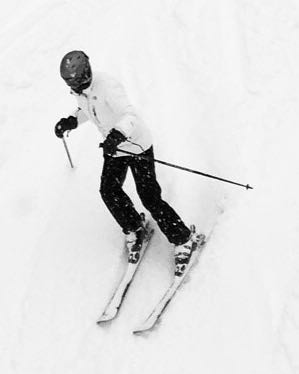
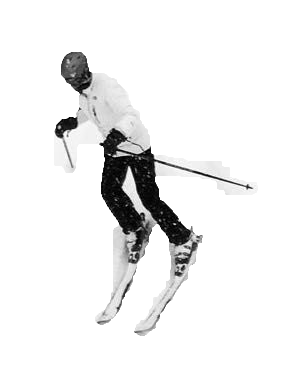
workable skiier and randomized gates

diff --git a/index.js b/index.js
@@ -11,7 +11,7 @@ var gateBlue = 'images/ski-gate-blue.jpg';
 var frames = 0;
 var background = {
   whiteBackground: function() {
-    ctx.fillStyle = '#E7E7E7';
+    ctx.fillStyle = '#F6F6F6';
     ctx.fillRect(0, 0, 500, 900);
   }
 };
@@ -30,14 +30,11 @@ window.onload = function() {
     switch (e.keyCode) {
       case 39:
         racer.moveRight();
-        console.log('move right');
         break;
       case 37:
         racer.moveLeft();
-        console.log('move left');
         break;
     }
-    updateCanvas();
   };
 
   function updateCanvas() {
@@ -52,22 +49,21 @@ window.onload = function() {
     frames++;
   }
 
-  //   function startGame() {
-  //     ctx.fillStyle = '#FDF6E1';
-  //     ctx.fillRect(0, 0, 500, 900);
-  //     racer.drawRacer();
-  //   }
-
   function createGate() {
     var y = canvasHeight;
-    var minWidth = 20;
-    var maxWidth = 400;
+    var minWidth = 1;
+    var maxWidth = 360;
     var width = Math.floor(Math.random() * (maxWidth - minWidth + 1) + minWidth);
-    var minGap = 50;
+    var minGap = 90;
     var maxGap = 200;
     var gap = Math.floor(Math.random() * (maxGap - minGap + 1) + minGap);
-    myGates.push(new Gate(0, y, width, 40, gateRed, ctx));
-    myGates.push(new Gate(width + gap, y, y - width - gap, 40, gateBlue, ctx));
+    if (width + gap >= 430) {
+      width = 330;
+      gap = 80;
+      console.log('adjusted gap');
+    }
+    myGates.push(new Gate(width, y, 10, 40, gateRed, ctx));
+    myGates.push(new Gate(width + gap, y, 10, 40, gateBlue, ctx));
   }
 
   function updateGates() {
@@ -75,9 +71,9 @@ window.onload = function() {
       myGates[i].y -= 10;
       myGates[i].drawGates();
       //   if (racer.checkIfCrash(myGates[i])) {
-      //     stopGame();
-      //     console.log('gate logs a crash');
-      //     return;
+      // stopGame();
+      // console.log('gate logs a crash');
+      // return;
       //   }
     }
   }

diff --git a/racer.js b/racer.js
@@ -6,28 +6,28 @@ function RacerConstructor(x, ctx) {
     ctx.fillStyle = 'black';
     this.racerImageL = new Image();
     this.racerImageL.src = '/images/SkiierLeft.jpg';
-    ctx.drawImage(this.racerImageL, this.x, this.y, 50 * 0.799, 50);
+    ctx.drawImage(this.racerImageL, this.x, this.y, 60 * 0.799, 60);
     //ctx.fillRect(this.x, 50, 30, 30);
   };
   this.drawRacerR = function() {
     this.racerImageR = new Image();
     this.racerImageR.src = '/images/SkiierRight.jpg';
-    ctx.drawImage(this.drawRacerR, this.x, this.y, 50 * 0.799, 50);
+    ctx.drawImage(this.drawRacerR, this.x, this.y, 60 * 0.799, 60);
   };
   this.moveLeft = function() {
     this.x -= 25;
-    if (this.x < 30) {
+    if (this.x < 10) {
       this.x = 30;
     }
   };
   this.moveRight = function() {
     this.x += 25;
-    if (this.x > 370) {
-      this.x = 370;
+    if (this.x > 390) {
+      this.x = 390;
     }
   };
   this.checkIfCrash = function(gate) {
-    var myright = this.x + width;
+    var myright = this.x + this.width;
     var myleft = this.x;
     var mytop = this.y;
     var mybottom = this.y + this.height;

diff --git a/gates.js b/gates.js
@@ -7,9 +7,9 @@ function Gate(x, y, width, height, imgSrc, ctx) {
 
   this.img = new Image();
   this.img.src = imgSrc;
-  this.ctx.drawImage(this.img, this.x, this.y, this.width, this.height);
+  this.ctx.drawImage(this.img, this.x, this.y, this.img.width / 10, this.height);
 
   this.drawGates = function() {
-    this.ctx.drawImage(this.img, this.x, this.y, this.width, this.height); //!!
+    this.ctx.drawImage(this.img, this.x, this.y, this.img.width / 10, this.height); //!!
   };
 }
